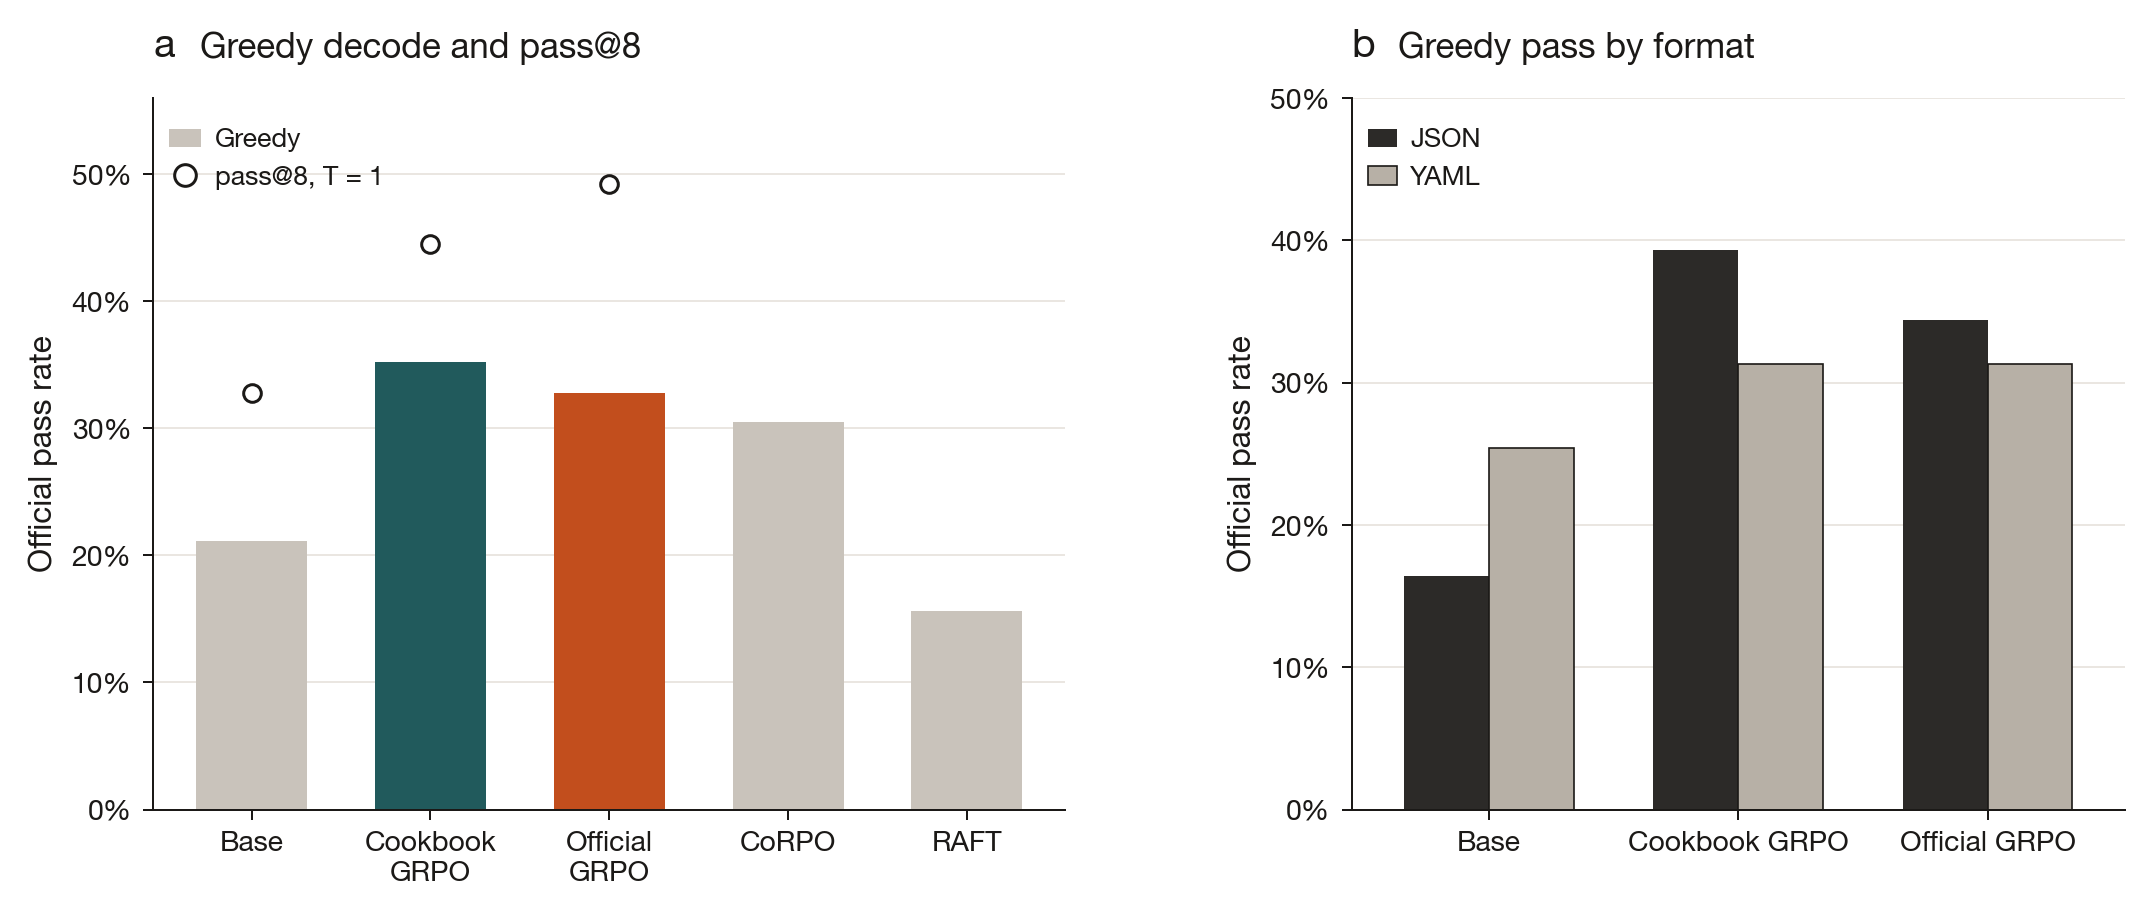
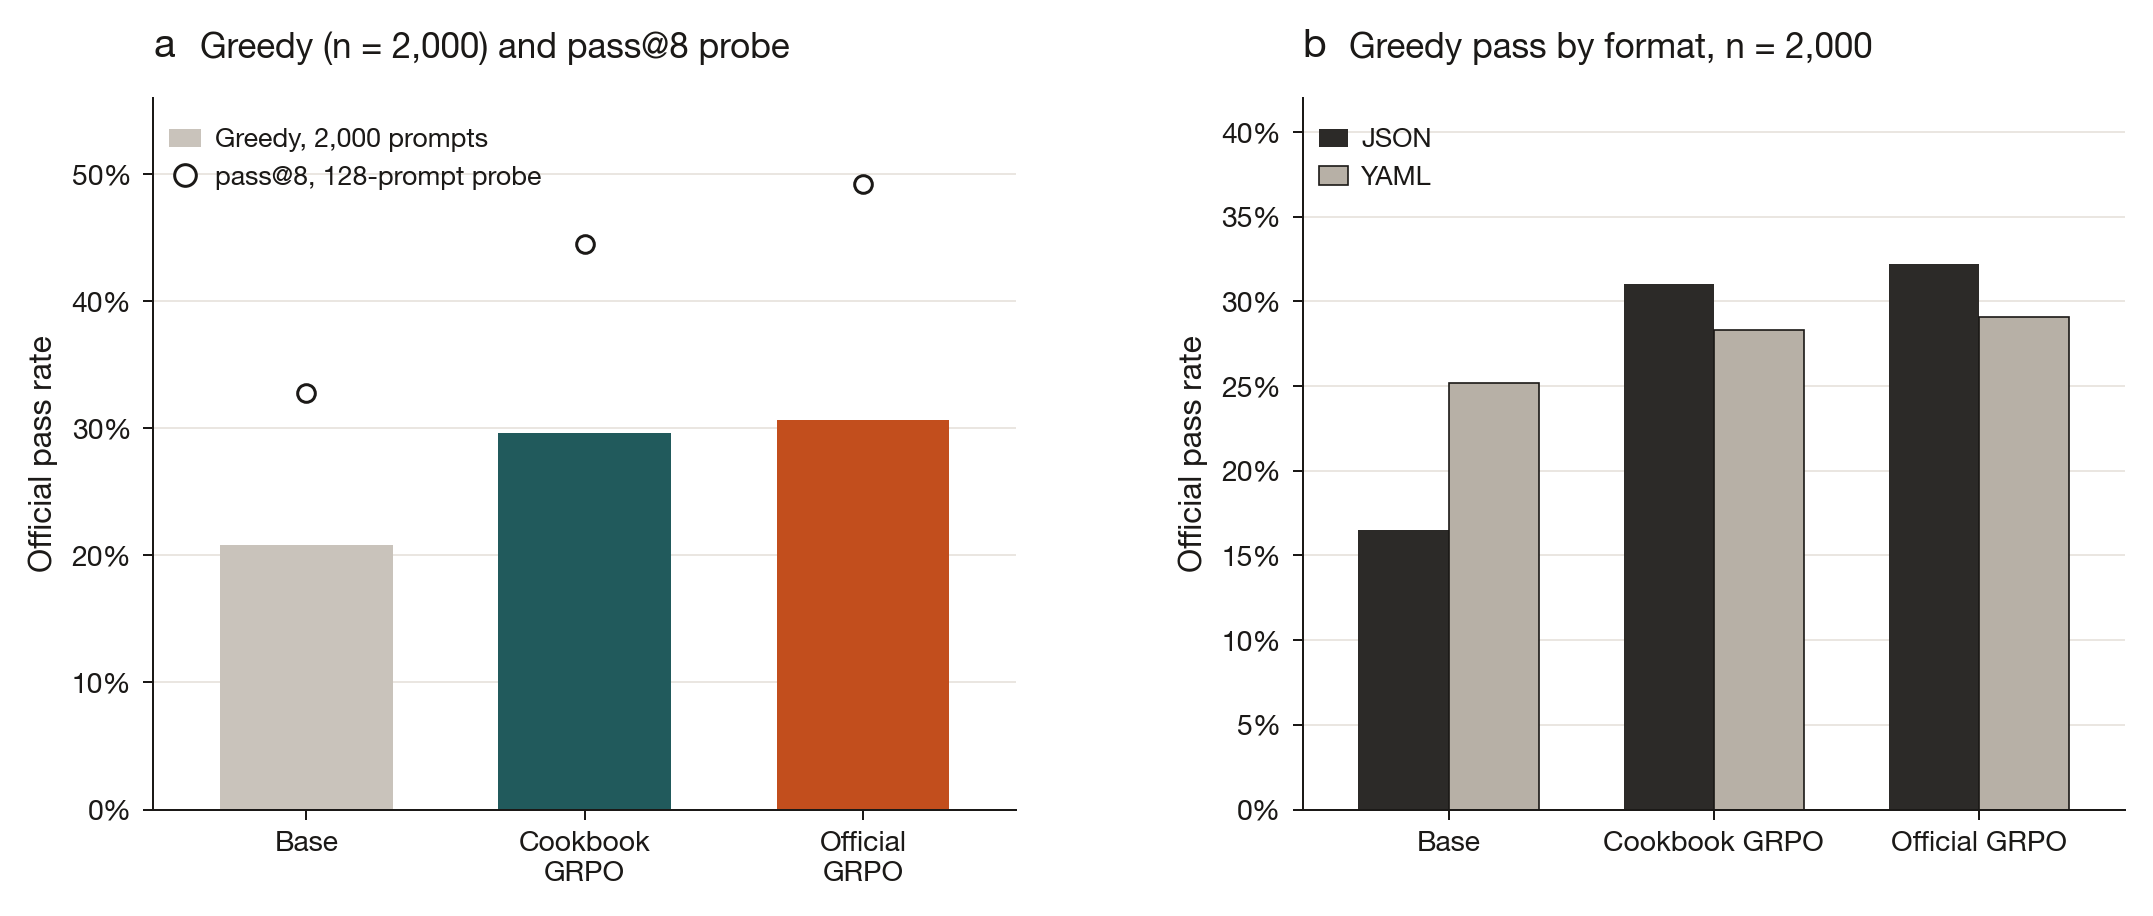
docs: publish full 2000-prompt greedy scores
Probe flattered A0 vs A2; lead with the official split.

diff --git a/README.md b/README.md
@@ -2,11 +2,27 @@
 
 Short reinforcement-learning-from-verifier-rewards (RLVR) recipes for **structured output**. The first experiment is [IFStruct](https://github.com/Liquid4All/ifstruct) instruction-following on [`LiquidAI/LFM2.5-350M`](https://huggingface.co/LiquidAI/LFM2.5-350M).
 
-**Result.** Liquid’s public 100-step [GRPO cookbook](https://huggingface.co/blog/grpo-with-trl-ifstruct) trains a looser checker than official IFStruct `validate_response`. Matching the official checker on a held-out generator did not beat that cookbook on greedy decode, but it did raise pass@8.
+**Result.** Liquid’s public 100-step [GRPO cookbook](https://huggingface.co/blog/grpo-with-trl-ifstruct) trains a looser checker than official IFStruct `validate_response`. On the full 2,000-prompt official greedy exam, matching that checker on a held-out generator was about even with the cookbook (613/2000 vs 593/2000). That is 20 prompts, one seed, and both the data mix and the train rewards changed, so it is not a method win.
 
 ## Results (LFM2.5-350M, 1 seed)
 
-Every number below uses official `validate_response`. Greedy decode unless noted. The public probe is 128 even seeds `0..254` (6.4% of the 2,000-row test set). Treat the probe as directional; a full-set greedy table will replace it when it lands.
+Every number below uses official `validate_response`. Greedy decode via HF `generate` (`do_sample=False`, `max_new_tokens=2048`).
+
+### Official greedy, full 2,000 prompts
+
+| Run | Official greedy | JSON | YAML |
+|---|---:|---:|---:|
+| Base `LFM2.5-350M` | 417/2000 (**20.8%**) | 16.5% | 25.2% |
+| Cookbook GRPO (A0) | 593/2000 (**29.6%**) | 31.0% | 28.3% |
+| Official-validator GRPO (A2) | 613/2000 (**30.6%**) | 32.2% | 29.1% |
+
+A0 follows the cookbook envelope: Nemotron structured-output prompts, three cheap train rewards, official exam at test. A2 keeps the same LoRA / GRPO setup (r=16, G=8, 100 steps, T=1.1, β=0.01) and swaps in official-shaped train rewards plus a held-out `train__*` prompt generator. YAML barely moved (~25% → 28–29%); almost all of the lift is JSON. Remaining A0 failures are mostly missing required fields, extra keys, and list-vs-schema-dump shape — not forgotten fences.
+
+A0’s 29.6% is close to Liquid’s published 29.7%, but the decoder is different (HF `generate` vs llama.cpp), so do not read this as a rematch of the cookbook table.
+
+### Probe (128 even seeds `0..254`) — pass@8 and other trainers
+
+The 128-prompt slice is 6.4% of the test set. It flattered A0 on greedy (35.2% vs 32.8%) relative to the full set (29.6% vs 30.6%). Use it for pass@8, CoRPO, and RAFT, not as the A0 vs A2 greedy ranking.
 
 | Run | Official greedy | JSON | YAML | pass@8 (T=1.0) |
 |---|---:|---:|---:|---:|
@@ -16,7 +32,7 @@ Every number below uses official `validate_response`. Greedy decode unless noted
 | CoRPO (`R_min=2.0`) | 39/128 (**30.5%**) | 27.9% | 32.8% | — |
 | RAFT (filter then SFT) | 20/128 (**15.6%**) | 26.2% | 6.0% | — |
 
-A0 follows the cookbook envelope: Nemotron structured-output prompts, three cheap train rewards, official exam at test. A2 keeps the same LoRA / GRPO setup (r=16, G=8, 100 steps, T=1.1, β=0.01) and swaps in official-shaped train rewards plus a held-out `train__*` prompt generator. CoRPO and RAFT use the same ~4,000-rollout budget as A0. A curriculum-ordered A2 rerun (easy→hard, constant LR) scored 39/128 (**30.5%**) greedy and is not a win. An OPSA screen on the base greedy run is a skip: failures are as confident as passes on the lowest-20% token logprobs.
+CoRPO and RAFT use the same ~4,000-rollout budget as A0. A curriculum-ordered A2 rerun (easy→hard, constant LR) scored 39/128 (**30.5%**) greedy and is not a win. An OPSA screen on the base greedy run is a skip: failures are as confident as passes on the lowest-20% token logprobs.
 
 [Fu et al. (2609.04172)](https://arxiv.org/abs/2609.04172) show that on-policy distillation is data-overfed: a handful of queries cover most training states, and content-light templates nearly match real problems, because the teacher supplies a dense token signal. Sparse IFStruct GRPO is the other side of that split — Nemotron’s messier states beat a clean generator on greedy. `scripts/run_a2_coverage.sh` retrains A2 on 16 `train__*` prompts that target the remaining error modes (schema dump, wrapper vs list, YAML fence, enums, extra keys, item count) for 300 steps. On-policy distillation itself is gated: only if `LFM2.5-1.2B-Instruct` is at least 3 points above cookbook GRPO on the official probe (`python -m ifstruct_rl.opd_gate`). After that, `scripts/run_sdpo.sh cookbook` and `scripts/run_sdpo.sh official` are two 100-step hybrid [SDPO](https://arxiv.org/abs/2601.20802)+GRPO ablations (λ=0.9): cheap cookbook rewards vs official exam rewards. The self-teacher gets a standing **mind the gap** list of leftover error modes (schema dump, wrapper vs list, extra keys, enums, item count, fences) plus a hint for the current attempt. After the 2,000-prompt eval, `python -m ifstruct_rl.error_modes` rewrites that list from the real leftover counts. 350M is below the scale where that self-teacher is known to help.
 
@@ -24,7 +40,7 @@ Compact metrics: [`artifacts/ifstruct-lfm350/`](artifacts/ifstruct-lfm350/). Mer
 
 ![Figure 1](artifacts/ifstruct-lfm350/exam.png)
 
-**Figure 1.** Official IFStruct pass on a 128-prompt probe (even seeds 0–254, one seed). **a**, Greedy decode (bars) and pass@8 at T = 1 (circles). Cookbook GRPO and official-validator GRPO are highlighted; CoRPO and RAFT share the same rollout budget. **b**, Greedy pass split by output format.
+**Figure 1.** Official IFStruct pass, one seed. **a**, Greedy decode on the full 2,000-prompt split (bars) and pass@8 at T = 1 on the 128-prompt probe (circles). Cookbook GRPO and official-validator GRPO are highlighted. **b**, Full-set greedy pass split by output format.
 
 ![Figure 2](artifacts/ifstruct-lfm350/train.png)
 
@@ -32,7 +48,7 @@ Compact metrics: [`artifacts/ifstruct-lfm350/`](artifacts/ifstruct-lfm350/). Mer
 
 ### Train checker vs exam
 
-A generation is a **hack** if the cookbook combined reward is `> 0.8` and official `validate_response` still fails.
+A generation is a **hack** if the cookbook combined reward is `> 0.8` and official `validate_response` still fails. Combined reward maxes at 3.5, so 0.8 is a soft bar — not a claim that the cookbook “passed.” Counts below are on the 128-prompt probe.
 
 | Run | Cookbook-high | Of those, official fail | Hack rate |
 |---|---:|---:|---:|
